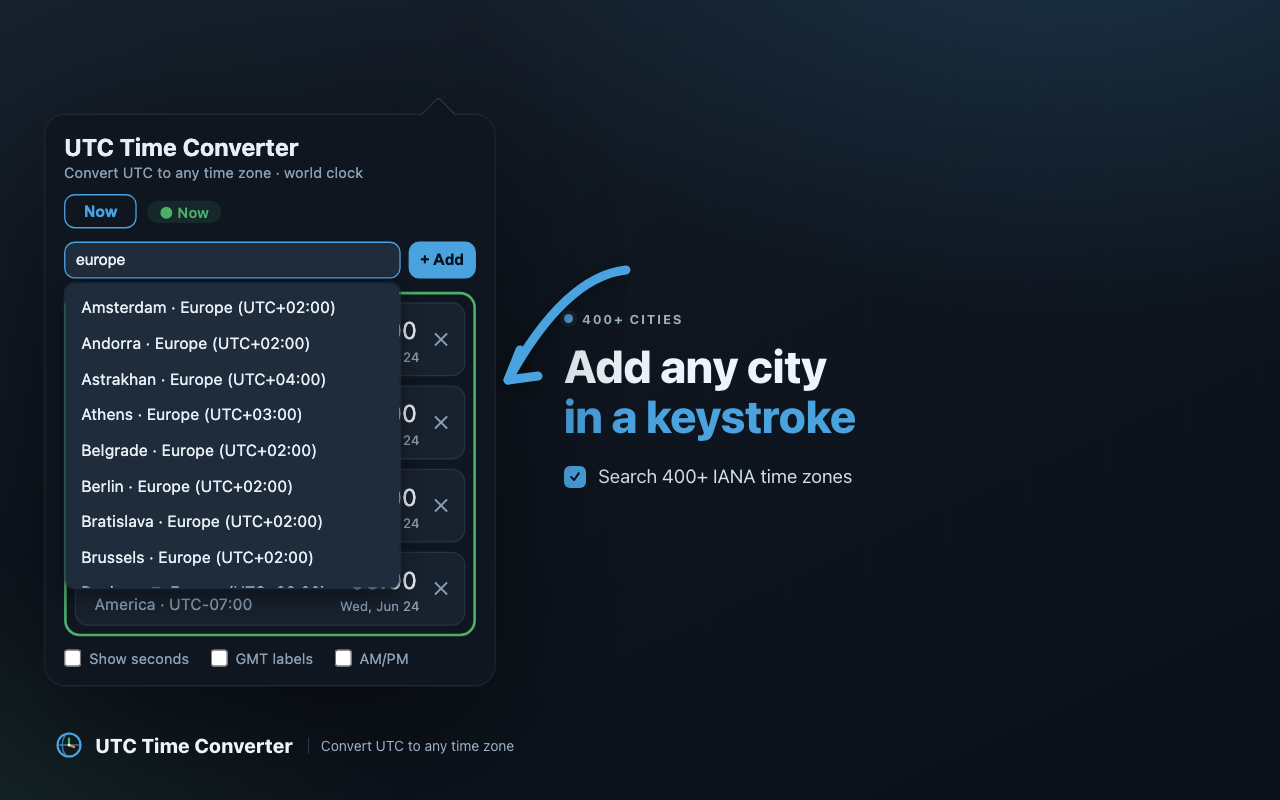
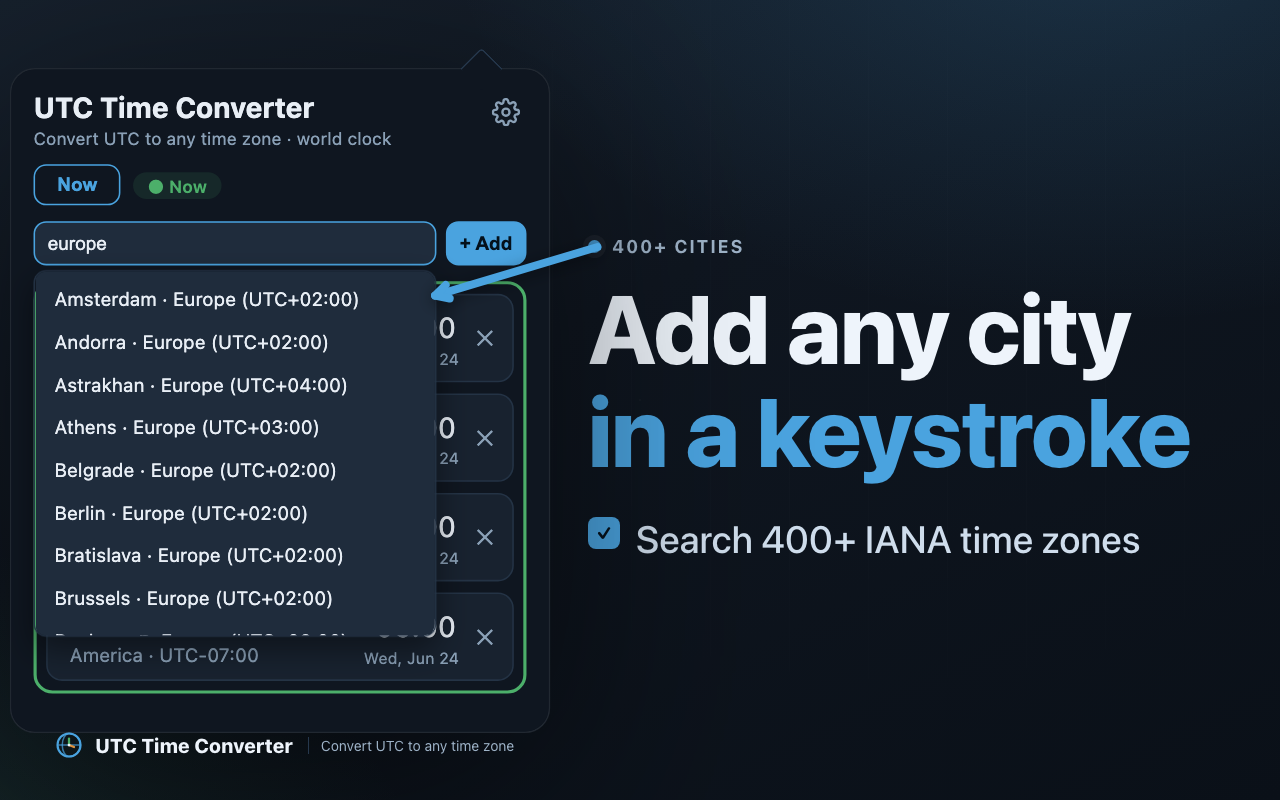
Zonewise welcome: language picker + Settings gear + sticky custom time (v0.3.0 UI); refresh screenshots

Changed region(s): [[0.0, 0.125, 0.9375, 0.875], [0.375, 0.125, 0.4062, 0.1562]]

diff --git a/zonewise/welcome/index.html b/zonewise/welcome/index.html
@@ -94,9 +94,12 @@
 
   <h2>A few handy touches</h2>
   <ul class="tips">
-    <li><strong>12- or 24-hour clock</strong> — toggle AM/PM or 24-hour time.</li>
-    <li><strong>Show seconds</strong> — flip on a live seconds display.</li>
+    <li><strong>Use it in your language</strong> — pick any of 53 languages: click the ⚙ gear in the popup
+        and choose from the Language menu. Right-to-left languages get a fully mirrored layout.</li>
+    <li><strong>12- or 24-hour clock, seconds, GMT labels</strong> — all in ⚙ Settings, one click from the popup.</li>
     <li><strong>Custom UTC/GMT offset</strong> — add a fixed offset, or rename any row to track a person or team.</li>
+    <li><strong>Custom times stick</strong> — a time you type stays put until you press <em>Reset to now</em>,
+        so you can browse and come back to your planned meeting.</li>
     <li><strong>100% on your device</strong> — no account, no tracking, no network requests. Your cities stay in your browser.</li>
   </ul>
 